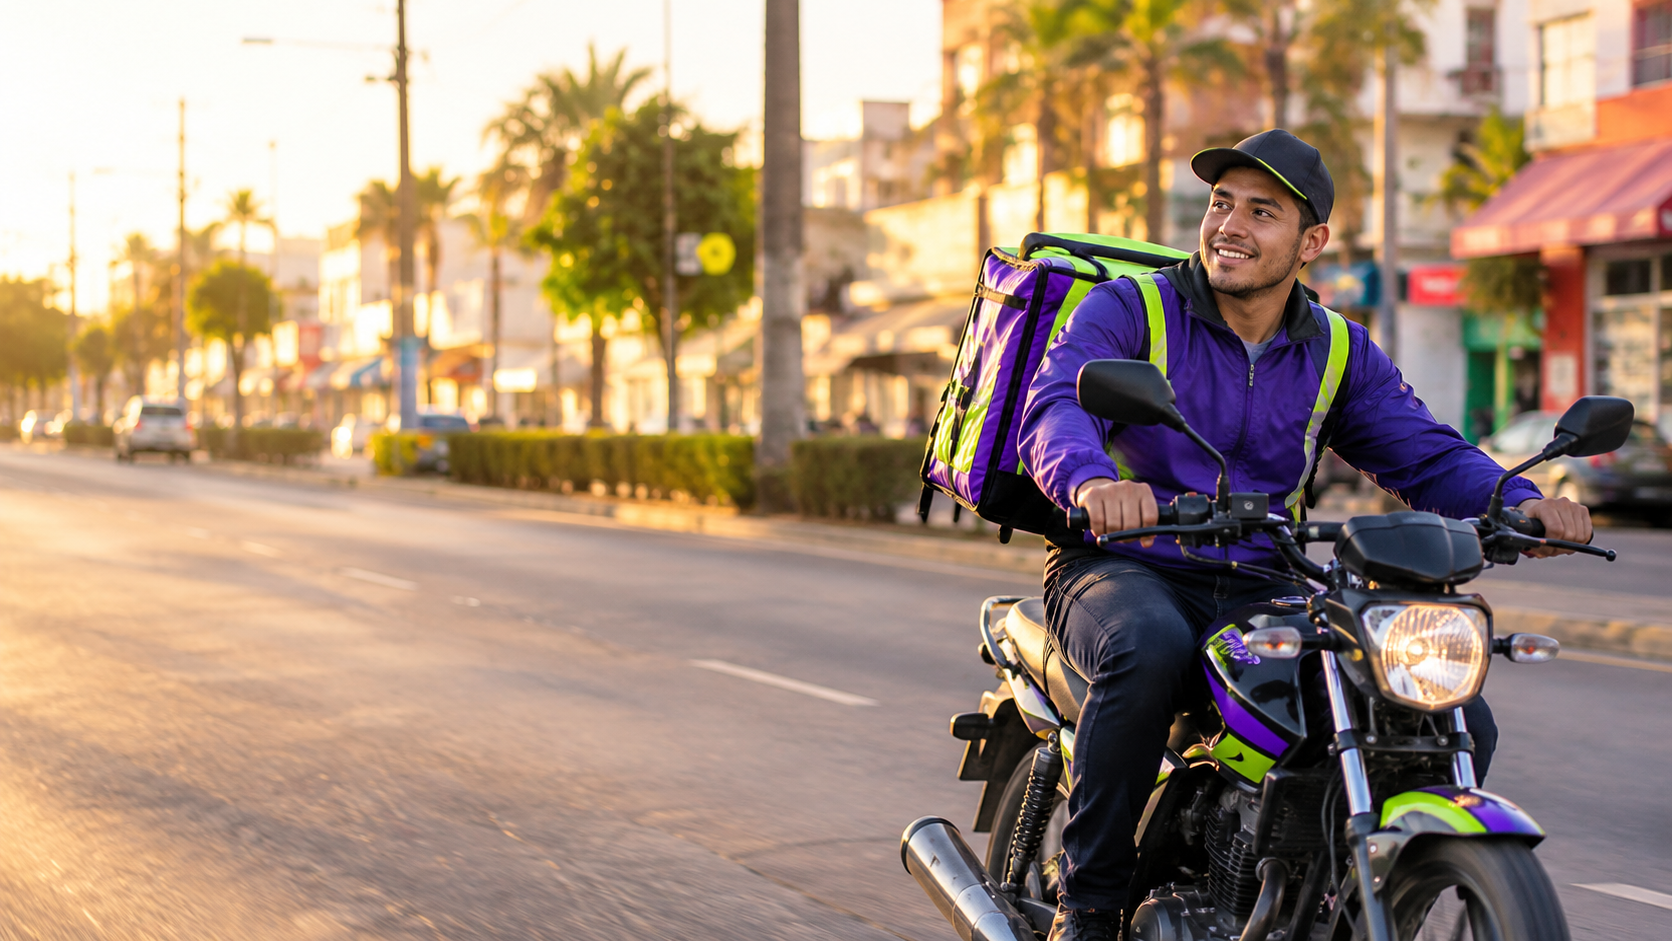
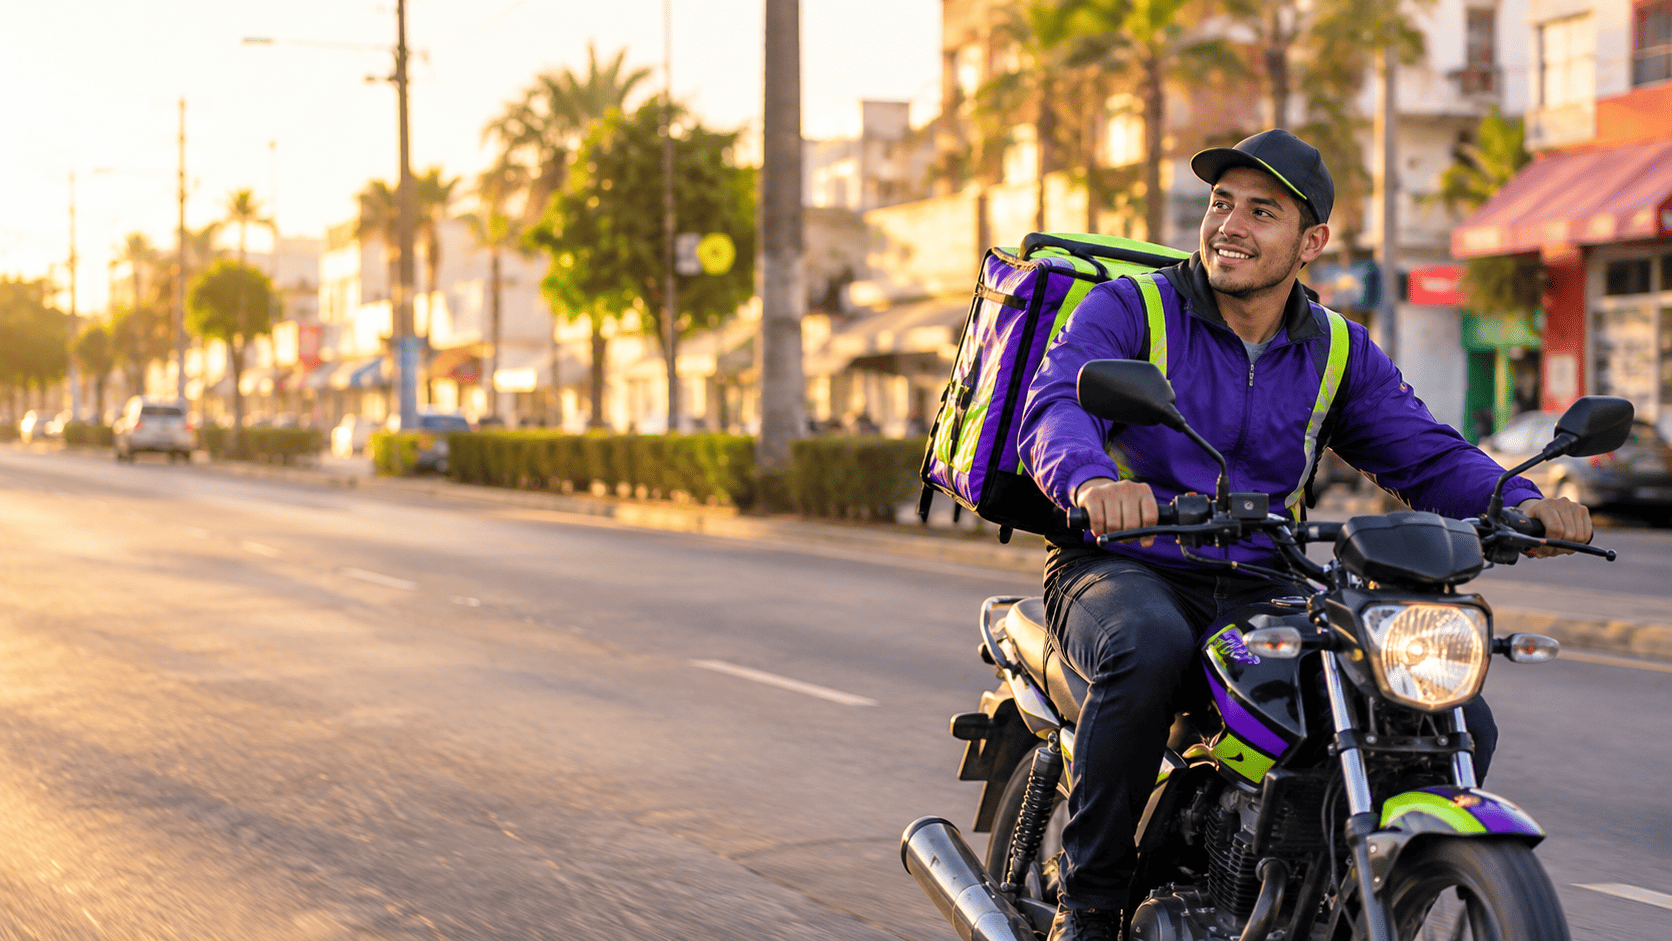
fix image v1

diff --git a/src/app/repartidores/page.tsx b/src/app/repartidores/page.tsx
@@ -218,7 +218,7 @@ export default function RepartidorLanding() {
               }}
             >
               <Image
-                src="/images/repartidorcomprimido.png"
+                src="/images/repartidor.png"
                 alt="Repartidor RaudaGo en moto"
                 fill
                 style={{ objectFit: 'cover', objectPosition: 'center center' }}

diff --git a/next.config.ts b/next.config.ts
@@ -2,6 +2,7 @@ import type { NextConfig } from 'next';
 
 const nextConfig: NextConfig = {
   images: {
+    unoptimized: true,
     remotePatterns: [
       { protocol: 'https', hostname: 'storage.googleapis.com' },
     ],
